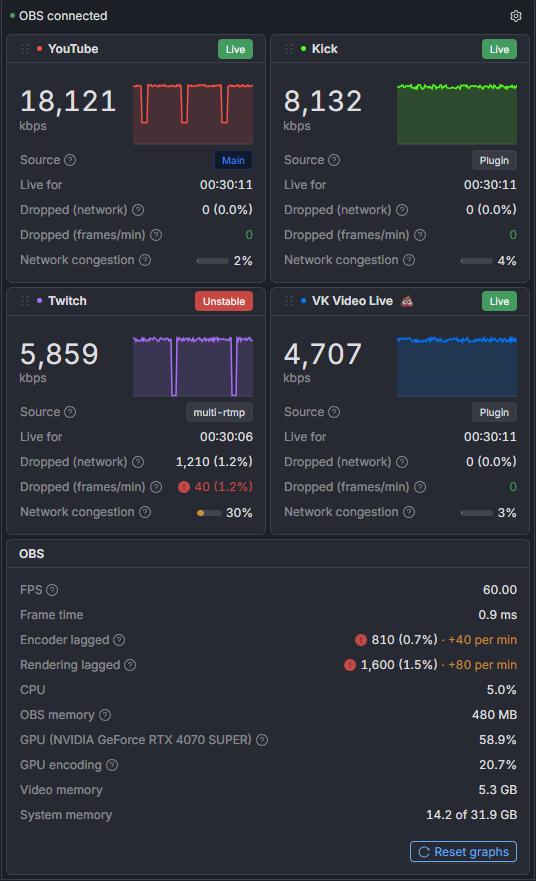
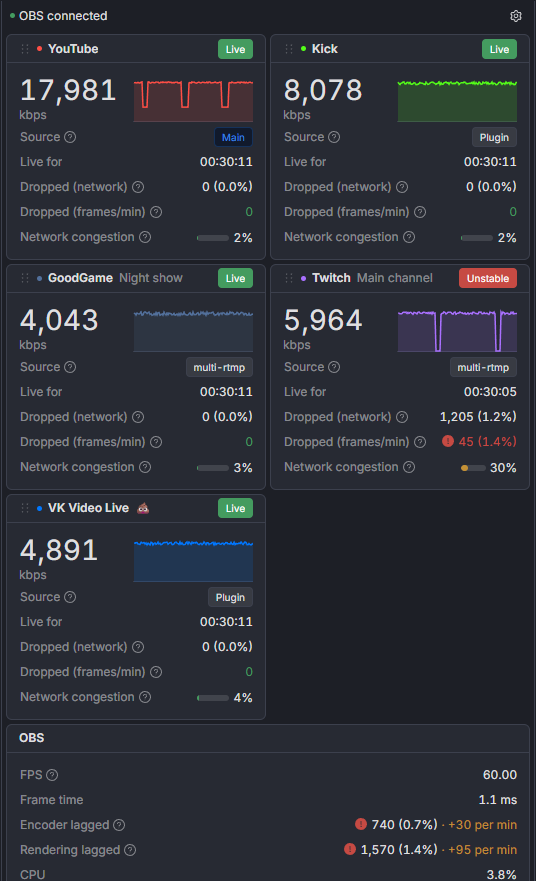
Write the 0.11.0 release notes

Changed region(s): [[0.0299, 0.0919, 1.0, 1.0], [0.6269, 0.7049, 0.806, 0.7662], [0.9851, 0.5516, 1.0, 0.5823]]

diff --git a/docs/release-notes/0.11.0.md b/docs/release-notes/0.11.0.md
@@ -1,0 +1,15 @@
+> [!IMPORTANT]
+> **Coming from 0.10.0 or older, and an update said the new version didn't start and went back? Run the installer once.** As in 0.10.1 and 0.10.2: on some PCs OBS opens the dock later than old versions were willing to wait. Close OBS and run [streamoscope-setup-0.11.0.exe](https://github.com/tjnk24/streamoscope/releases/download/v0.11.0/streamoscope-setup-0.11.0.exe) over your installation: it installs without that check. Your settings, the journal and OBS stay as they are. If your updates go through fine, skip it.
+
+- **obs-multi-rtmp targets show up before you go live.** The plugin creates its outputs only when a target starts, so until then the dock had nothing to show for them but a note. Now the bridge reads the targets from the plugin's settings in your profile, and every enabled one gets its empty card right away, in its place in your order. Start the target and the same card fills with numbers. Targets switched off in the plugin get no card. Other plugins still introduce their streams on start, so their cards come then.
+- **Cards carry the names you gave the targets.** The name from obs-multi-rtmp sits in grey next to the platform, so two channels on one platform are no longer a guessing game. A target named just like its platform doesn't get the name twice.
+- The keys in the plugin's settings get the same treatment as before: the bridge folds them into the fingerprint right inside OBS, and neither the dock nor the journal ever sees them.
+
+---
+
+> [!IMPORTANT]
+> **Обновляетесь с 0.10.0 или старше, и обновление написало, что новая версия не запустилась, и вернуло прежнюю? Запустите установщик один раз.** Как и в 0.10.1 и 0.10.2: на некоторых ПК OBS открывает док позже, чем готовы были ждать старые версии. Закройте OBS и запустите поверх установленной программы [streamoscope-setup-0.11.0.exe](https://github.com/tjnk24/streamoscope/releases/download/v0.11.0/streamoscope-setup-0.11.0.exe): он ставит версию без этой проверки. Настройки, журнал и OBS останутся как есть. Если обновления у вас проходят нормально, этот шаг не нужен.
+
+- **Цели obs-multi-rtmp видны ещё до эфира.** Плагин создаёт выходы только при старте цели, поэтому до тех пор панели нечего было о них показать, кроме пояснения. Теперь мост читает цели из настроек плагина в вашем профиле, и каждая включённая сразу получает пустую карточку на своём месте в вашем порядке. Запустите цель — та же карточка наполнится цифрами. Выключенные в плагине цели карточку не получают. Другие плагины по-прежнему сообщают о своих трансляциях при старте, так что их карточки появятся тогда же.
+- **На карточках — названия, которые вы дали целям.** Название из obs-multi-rtmp стоит серым рядом с площадкой, так что два канала на одной площадке больше не приходится угадывать. Если цель названа так же, как площадка, дважды название не пишется.
+- С ключами из настроек плагина всё как раньше: мост сворачивает их в отпечаток прямо в OBS, ни панель, ни журнал их не видят.
